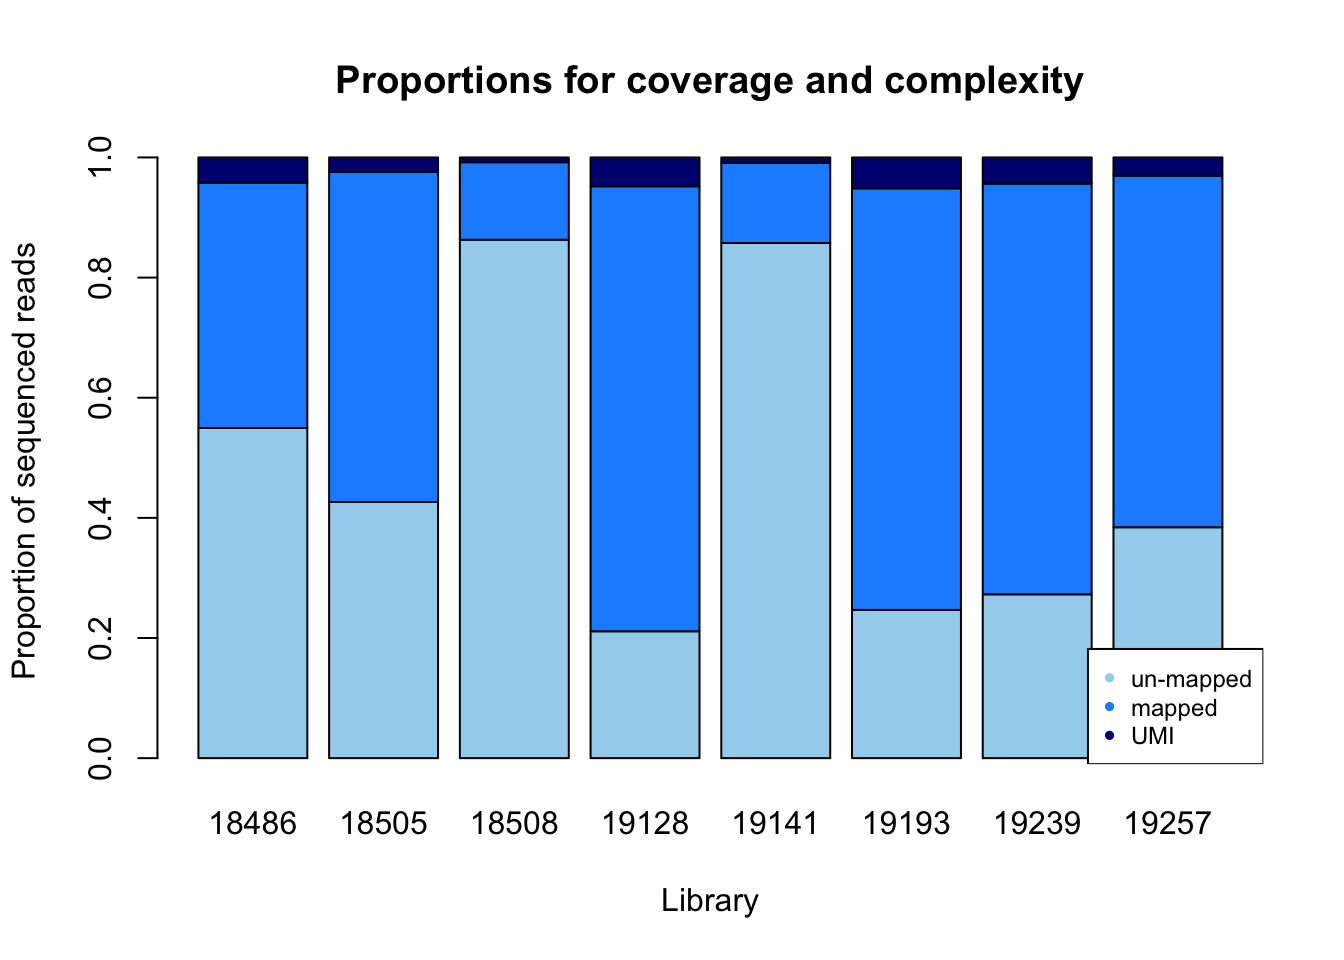
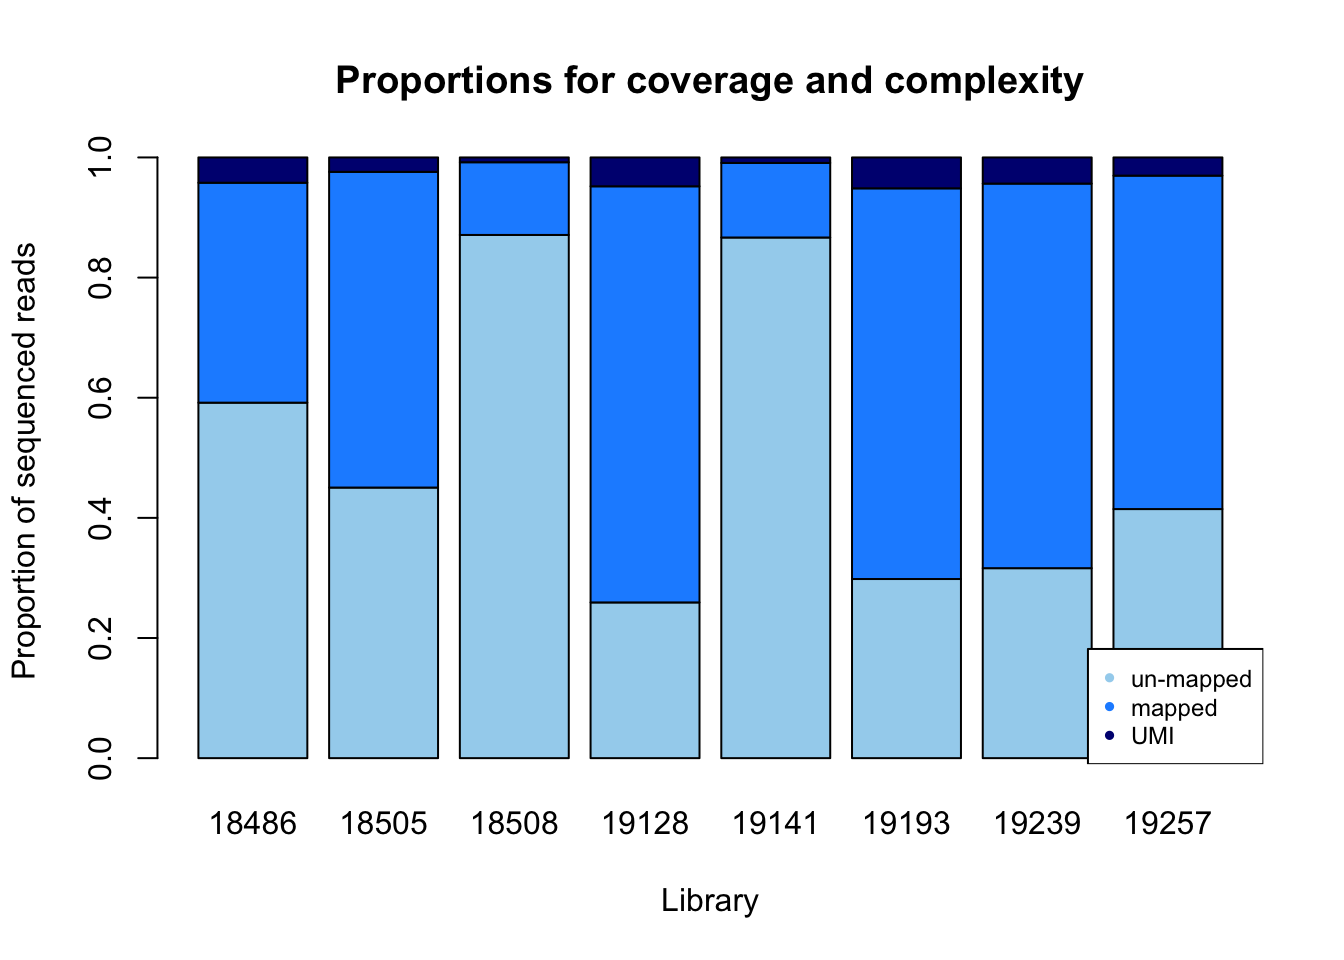
Build site.

diff --git a/docs/Net_3_explore.html b/docs/Net_3_explore.html
@@ -315,10 +315,10 @@ div.tocify {
 shared across the workflowr files. -->
 <!-- Update knitr chunk options -->
 <!-- Insert the date the file was last updated -->
-<p><strong>Last updated:</strong> 2018-02-14</p>
+<p><strong>Last updated:</strong> 2018-02-15</p>
 <!-- Insert the code version (Git commit SHA1) if Git repository exists and R
  package git2r is installed -->
-<p><strong>Code version:</strong> d48ffe2</p>
+<p><strong>Code version:</strong> f226e6e</p>
 <!-- Add your analysis here -->
 <p>This analysis is to look at the quality of the library net-3. This has the first 8 libraries from the 16 pilot libraries.</p>
 <ul>
@@ -364,10 +364,8 @@ legend(&quot;topright&quot;, legend = c(&quot;total&quot;, &quot;mapped&quot;, &
 <p><img src="figure/Net_3_explore.Rmd/unnamed-chunk-3-1.png" width="672" style="display: block; margin: auto;" /></p>
 <p>Look at this by proportions:</p>
 <pre class="r"><code>percent_mapped= mapped/fastq
-percent_mapped</code></pre>
-<pre><code>[1] 0.4082131 0.5495220 0.1290152 0.7407553 0.1332542 0.7017958 0.6837408
-[8] 0.5853412</code></pre>
-<pre class="r"><code>percent_UMI= dedup/fastq
+percent_UMI= dedup/fastq
+percent_mapped= percent_mapped - percent_UMI
 percent_not_mapped= 1- percent_mapped - percent_UMI
 
 
@@ -379,6 +377,73 @@ prop_plot=barplot(as.matrix(prop), main=&quot;Proportions for coverage and compl
     ylab=&quot;Proportion of sequenced reads&quot;)
 legend(&quot;bottomright&quot;, legend = c(&quot;un-mapped&quot;, &quot;mapped&quot;, &quot;UMI&quot;), col=c(&quot;lightskyblue2&quot;,&quot;dodgerblue1&quot;,&quot;navy&quot;), pch=20, cex = 0.75)</code></pre>
 <p><img src="figure/Net_3_explore.Rmd/unnamed-chunk-4-1.png" width="672" style="display: block; margin: auto;" /></p>
+<pre class="r"><code>summary(mapped)</code></pre>
+<pre><code>    Min.  1st Qu.   Median     Mean  3rd Qu.     Max. 
+14018943 25801188 27401128 28903173 37087002 38084941 </code></pre>
+<pre class="r"><code>summary(percent_mapped)</code></pre>
+<pre><code>   Min. 1st Qu.  Median    Mean 3rd Qu.    Max. 
+ 0.1210  0.3056  0.5403  0.4594  0.6428  0.6927 </code></pre>
+<pre class="r"><code>summary(percent_not_mapped)</code></pre>
+<pre><code>   Min. 1st Qu.  Median    Mean 3rd Qu.    Max. 
+ 0.2592  0.3117  0.4326  0.5085  0.6605  0.8710 </code></pre>
+<p>I will now use the get_mapped.py script from the previous analysis to see how long the mapped reads are. I copied it to /project2/gilad/briana/Net-seq/Net-seq3/code. The code takes in sorted bam file and an output text file. I will create a sbatch script to run this on all 8 files. This file is called wrap_get_mapped.sh and is in the same code directory.</p>
+<pre class="bash"><code>#!/bin/bash
+
+
+#SBATCH --job-name=wrap_get_map
+#SBATCH --time=8:00:00
+#SBATCH --partition=gilad
+#SBATCH --mem=16G
+#SBATCH --mail-type=END
+
+module load Anaconda3
+
+source activate net-seq  
+
+python /project2/gilad/briana/Net-seq/Net-seq3/code/get_mapped.py /project2/gilad/briana/Net-seq/Net-seq3/data/sort/YG-SP-NET3-18486-2018-1-8_S3_L008_R1_001-sort.bam /project2/gilad/briana/Net-seq/Net-seq3/output/mapped_stats_18486.txt
+
+python /project2/gilad/briana/Net-seq/Net-seq3/code/get_mapped.py /project2/gilad/briana/Net-seq/Net-seq3/data/sort/YG-SP-NET3-18505-2018-1-8_S1_L008_R1_001-sort.bam /project2/gilad/briana/Net-seq/Net-seq3/output/mapped_stats_18505.txt
+
+python /project2/gilad/briana/Net-seq/Net-seq3/code/get_mapped.py /project2/gilad/briana/Net-seq/Net-seq3/data/sort/YG-SP-NET3-18508-2018-1-8_S2_L008_R1_001-sort.bam /project2/gilad/briana/Net-seq/Net-seq3/output/mapped_stats_18508.txt
+
+python /project2/gilad/briana/Net-seq/Net-seq3/code/get_mapped.py /project2/gilad/briana/Net-seq/Net-seq3/data/sort/YG-SP-NET3-19128-2018-1-8_S8_L008_R1_001-sort.bam /project2/gilad/briana/Net-seq/Net-seq3/output/mapped_stats_19128.txt  
+
+
+python /project2/gilad/briana/Net-seq/Net-seq3/code/get_mapped.py /project2/gilad/briana/Net-seq/Net-seq3/data/sort/YG-SP-NET3-19141-2018-1-8_S5_L008_R1_001-sort.bam /project2/gilad/briana/Net-seq/Net-seq3/output/mapped_stats_19141.txt 
+
+python /project2/gilad/briana/Net-seq/Net-seq3/code/get_mapped.py /project2/gilad/briana/Net-seq/Net-seq3/data/sort/YG-SP-NET3-19193-2018-1-8_S6_L008_R1_001-sort.bam /project2/gilad/briana/Net-seq/Net-seq3/output/mapped_stats_19193.txt 
+
+python /project2/gilad/briana/Net-seq/Net-seq3/code/get_mapped.py /project2/gilad/briana/Net-seq/Net-seq3/data/sort/YG-SP-NET3-19239-2018-1-8_S4_L008_R1_001-sort.bam /project2/gilad/briana/Net-seq/Net-seq3/output/mapped_stats_19239.txt 
+
+python /project2/gilad/briana/Net-seq/Net-seq3/code/get_mapped.py /project2/gilad/briana/Net-seq/Net-seq3/data/sort/YG-SP-NET3-19257-2018-1-8_S7_L008_R1_001-sort.bam /project2/gilad/briana/Net-seq/Net-seq3/output/mapped_stats_19257.txt 
+</code></pre>
+<p>I will now make histograms showing the number of reads that map from the cigar strings.</p>
+<pre class="r"><code>#pull in data:  
+
+map.vec.18486=read.csv(&quot;../data/net-3-readmap/mapped_stats_18486.txt&quot;, header=FALSE)
+map.vec.18505=read.csv(&quot;../data/net-3-readmap/mapped_stats_18505.txt&quot;, header=FALSE)
+map.vec.18508=read.csv(&quot;../data/net-3-readmap/mapped_stats_18508.txt&quot;, header=FALSE)
+map.vec.19128=read.csv(&quot;../data/net-3-readmap/mapped_stats_19128.txt&quot;, header=FALSE)
+map.vec.19141=read.csv(&quot;../data/net-3-readmap/mapped_stats_19141.txt&quot;, header=FALSE)
+map.vec.19193=read.csv(&quot;../data/net-3-readmap/mapped_stats_19193.txt&quot;, header=FALSE)
+map.vec.19239=read.csv(&quot;../data/net-3-readmap/mapped_stats_19239.txt&quot;, header=FALSE)
+map.vec.19257=read.csv(&quot;../data/net-3-readmap/mapped_stats_19257.txt&quot;, header=FALSE)
+#pull in mayer as well
+
+map.vec.mayer=read.csv(&quot;../data/mapped_mayer.txt&quot;, header=FALSE)</code></pre>
+<pre class="r"><code>#make histograms
+
+par(mfrow=c(3,3))
+hist((as.numeric(map.vec.18486$V1)), xlab=&quot;Bases&quot;, main=&quot;Histogram of 18486 mapped reads&quot;)
+ hist((as.numeric(map.vec.18505$V1)), xlab=&quot;Bases&quot;, main=&quot;Histogram of 18505 mapped reads&quot;)
+hist((as.numeric(map.vec.18508$V1)), xlab=&quot;Bases&quot;, main=&quot;Histogram of 18508 mapped reads&quot;)
+hist((as.numeric(map.vec.19128$V1)), xlab=&quot;Bases&quot;, main=&quot;Histogram of 19128 mapped reads&quot;)
+hist((as.numeric(map.vec.19141$V1)), xlab=&quot;Bases&quot;, main=&quot;Histogram of 19141 mapped reads&quot;)
+hist((as.numeric(map.vec.19193$V1)), xlab=&quot;Bases&quot;, main=&quot;Histogram of 19193 mapped reads&quot;)
+hist((as.numeric(map.vec.19239$V1)), xlab=&quot;Bases&quot;, main=&quot;Histogram of 19239 mapped reads&quot;)
+hist((as.numeric(map.vec.19257$V1)), xlab=&quot;Bases&quot;, main=&quot;Histogram of 19257 mapped reads&quot;)
+hist((as.numeric(map.vec.mayer$V1)), xlab=&quot;Bases&quot;, main=&quot;Histogram of Mayer mapped reads&quot;)</code></pre>
+<p><img src="figure/Net_3_explore.Rmd/unnamed-chunk-8-1.png" width="672" style="display: block; margin: auto;" /></p>
 <div id="session-information" class="section level2">
 <h2>Session information</h2>
 <!-- Insert the session information into the document -->
